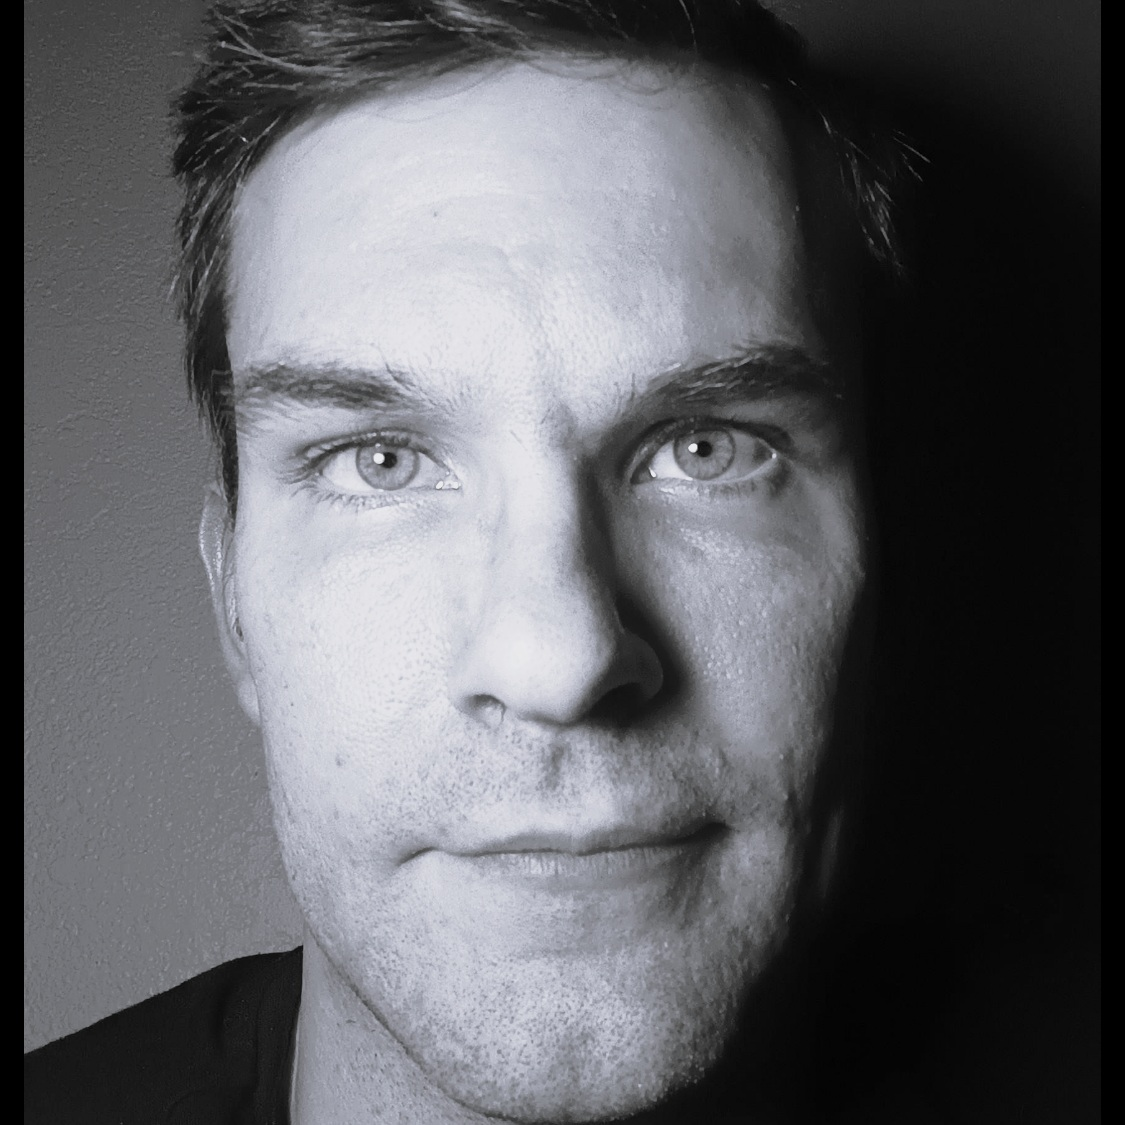
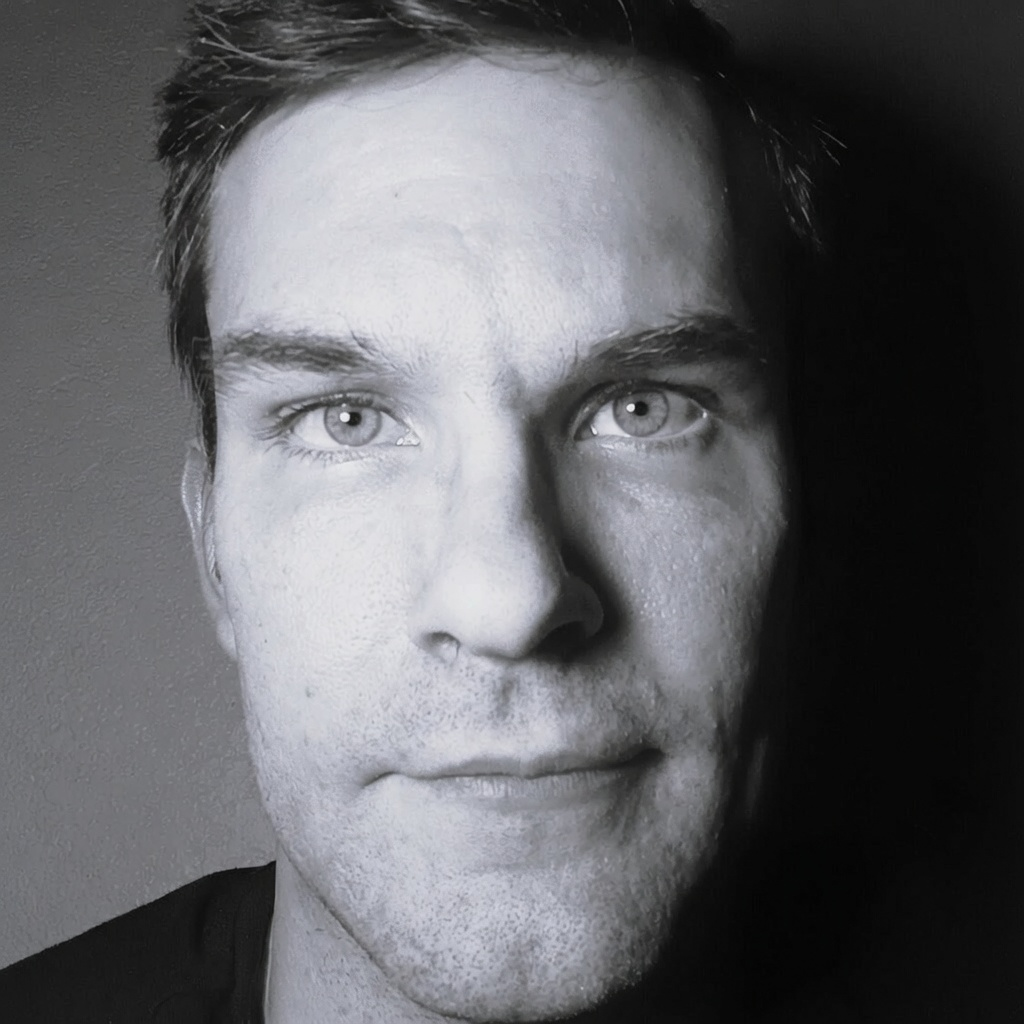
few more adjustments

Changed region(s): [[0.0, 0.0, 0.0312, 1.0], [0.9688, 0.0, 1.0, 0.1875]]

diff --git a/styles.css b/styles.css
@@ -99,12 +99,12 @@ nav {
 }
 
 .hero-profile {
-	width: 150px;
-	height: 150px;
+	width: clamp(220px, 28vw, 320px);
+	height: clamp(220px, 28vw, 320px);
 	border-radius: 50%;
 	object-fit: cover;
-	border: 4px solid rgba(255, 255, 255, 0.3);
-	box-shadow: 0 10px 30px rgba(0, 0, 0, 0.3);
+	border: 7px solid rgba(255, 255, 255, 0.4);
+	box-shadow: 0 24px 60px rgba(0, 0, 0, 0.38);
 	animation: fadeInUp 1s ease;
 }
 
@@ -514,8 +514,8 @@ footer {
 	}
 
 	.hero-profile {
-		width: 120px;
-		height: 120px;
+		width: clamp(180px, 55vw, 240px);
+		height: clamp(180px, 55vw, 240px);
 	}
 
 	.about-content,
